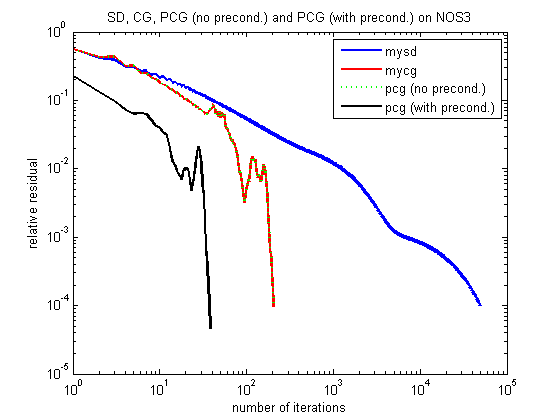
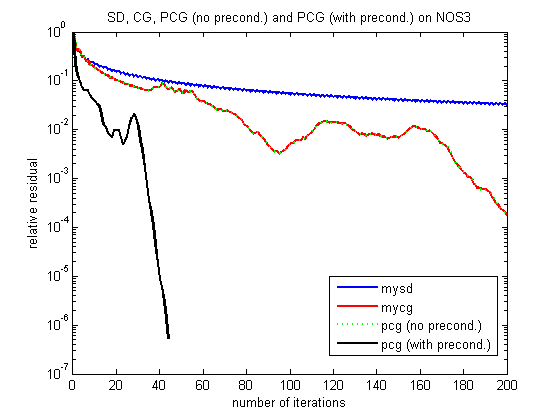
ECS231

diff --git a/ECS231/temp/main_spd.m b/ECS231/temp/main_spd.m
@@ -1,14 +1,14 @@
 clear all;close all;
 %% Test matrices
-%[A, rows, cols, entries] = mmread('bcsstk15.mtx');
-[A, rows, cols, entries] = mmread('NOS3.mtx');
+[A, rows, cols, entries] = mmread('bcsstk15.mtx');
+%[A, rows, cols, entries] = mmread('NOS3.mtx');
 
 %% Input parameters: let x_sol = 1, form b = A* x_sol
 x_sol = ones(rows,1);
 b = A * x_sol;
-maxit = 1e5;
-tol = 1e-4;
-dopcgp = 1; % set to 0 for bcsstk15 and 1 for NOS3
+maxit = 2e2;
+tol = 1e-6;
+dopcgp = 0; % set to 0 for bcsstk15 and 1 for NOS3
 
 %% Call mysd, mycg and Matlab function pcg without/with a precondioner
 [x1,fl1,rr1,it1,rv1] = mysd(A,b,tol,maxit);
@@ -21,12 +21,12 @@ end
 
 %% Plot data
 figure(1);
-loglog(0:it1,rv1/norm(b),'b-','LineWidth',2);
+semilogy(0:it1,rv1/norm(b),'b-','LineWidth',2);
 hold on;
-loglog(0:it2,rv2/norm(b),'r-','LineWidth',2);
-loglog(0:it3,rv3/norm(b),'g:','LineWidth',2);
+semilogy(0:it2,rv2/norm(b),'r-','LineWidth',2);
+semilogy(0:it3,rv3(1:it3+1)/norm(b),'g:','LineWidth',2);
 if (dopcgp)
-    loglog(0:it4,rv4/norm(b),'k-','LineWidth',2);
+    semilogy(0:it4,rv4/norm(b),'k-','LineWidth',2);
 end
 hold off;
 ylabel('relative residual');

diff --git a/ECS231/temp/mycg.m b/ECS231/temp/mycg.m
@@ -18,13 +18,13 @@ function [x,flag,relres,iter,resvec] = mycg(A,b,tol,maxit)
 
 n = size(A,1);
 x = zeros(n,1);
-resvec = zeros(maxit+1,1);
+resvec = zeros(maxit,1);
 iter = 1;
 r = b - A*x;
 resvec(iter) = norm(r);
 relres = resvec(iter) / norm(b); % relative residual 
 p = r;
-while (relres > tol && iter <= maxit+1)
+while (relres > tol && iter <= maxit)
     theta = r'*r/(p'*A*p);
     x = x + theta*p;
     rr = r - theta*A*p;
@@ -35,7 +35,7 @@ while (relres > tol && iter <= maxit+1)
     resvec(iter) = norm(r);
     relres = resvec(iter) / norm(b); % relative residual
 end
-if (iter < maxit+1)
+if (iter <= maxit)
     flag = 0; % converge to tol
 else
     flag = 1; % not converge but stop at maxit

diff --git a/ECS231/temp/mysd.m b/ECS231/temp/mysd.m
@@ -18,12 +18,12 @@ function [x,flag,relres,iter,resvec] = mysd(A,b,tol,maxit)
 
 n = size(A,1);
 x = zeros(n,1);
-resvec = zeros(maxit+1,1);
+resvec = zeros(maxit,1);
 iter = 1;
 r = b - A*x;
 resvec(iter) = norm(r);
 relres = resvec(iter) / norm(b); % relative residual 
-while (relres > tol && iter <= maxit+1)
+while (relres > tol && iter <= maxit)
     alpha = r'*r / (r'*A*r);
     x = x + alpha*r;
     r = b - A*x;
@@ -31,7 +31,7 @@ while (relres > tol && iter <= maxit+1)
     resvec(iter) = norm(r);
     relres = resvec(iter)/ norm(b); % relative residual
 end
-if (iter < maxit+1)
+if (iter <= maxit)
     flag = 0; % converge to tol
 else
     flag = 1; % not converge but stop at maxit
